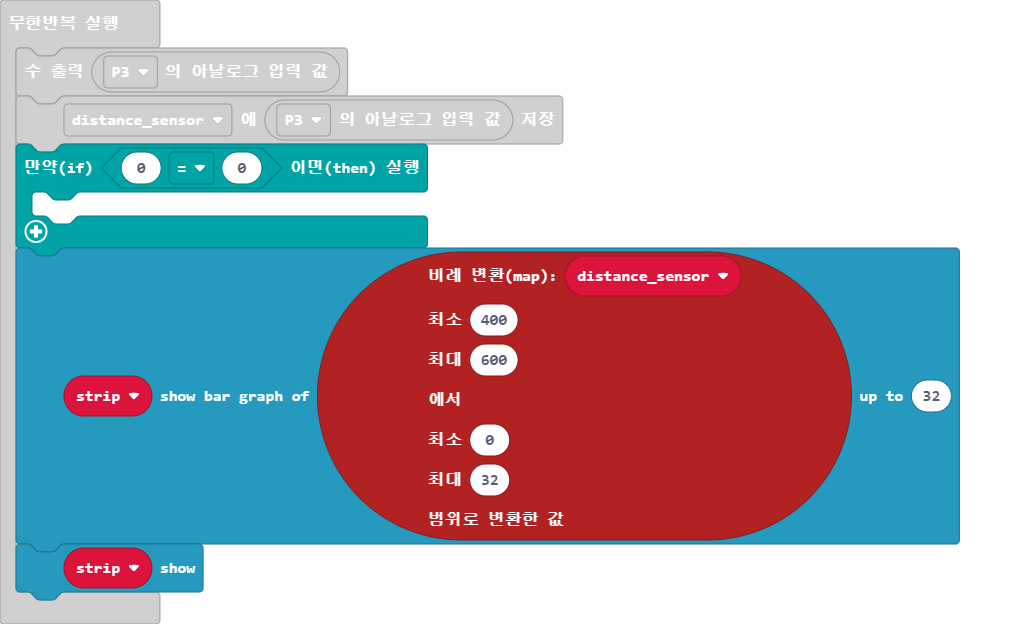
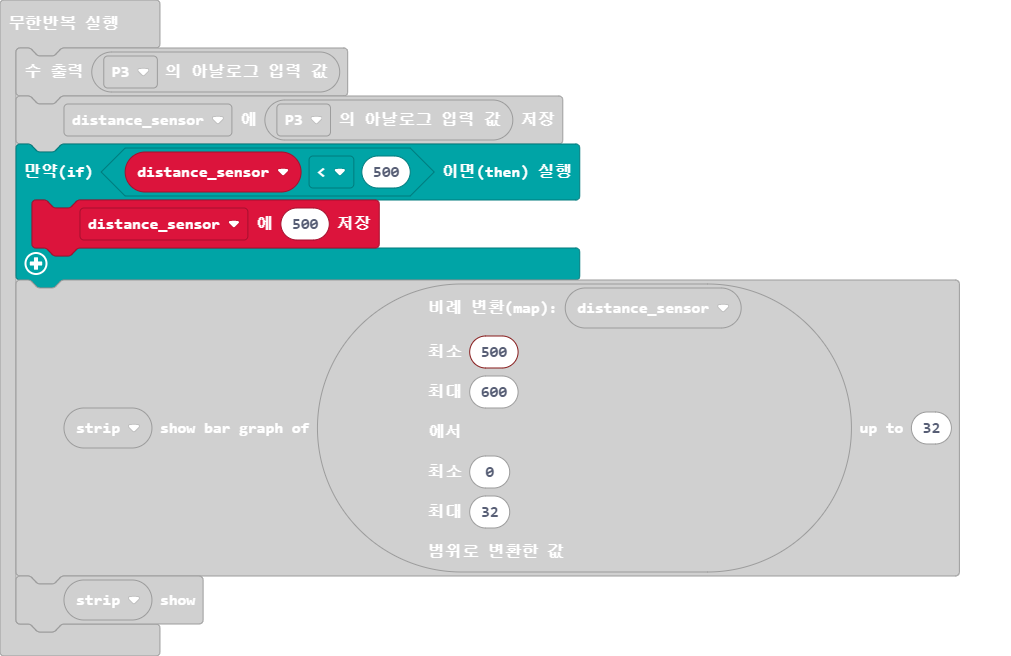
Update main.blocks, main.ts

diff --git a/main.ts b/main.ts
@@ -4,12 +4,12 @@ strip.show()
 basic.forever(function () {
     basic.showNumber(pins.analogReadPin(AnalogPin.P3))
     distance_sensor = pins.analogReadPin(AnalogPin.P3)
-    if (0 == 0) {
-    	
+    if (distance_sensor < 500) {
+        distance_sensor = 500
     }
     strip.showBarGraph(pins.map(
     distance_sensor,
-    400,
+    500,
     600,
     0,
     32
